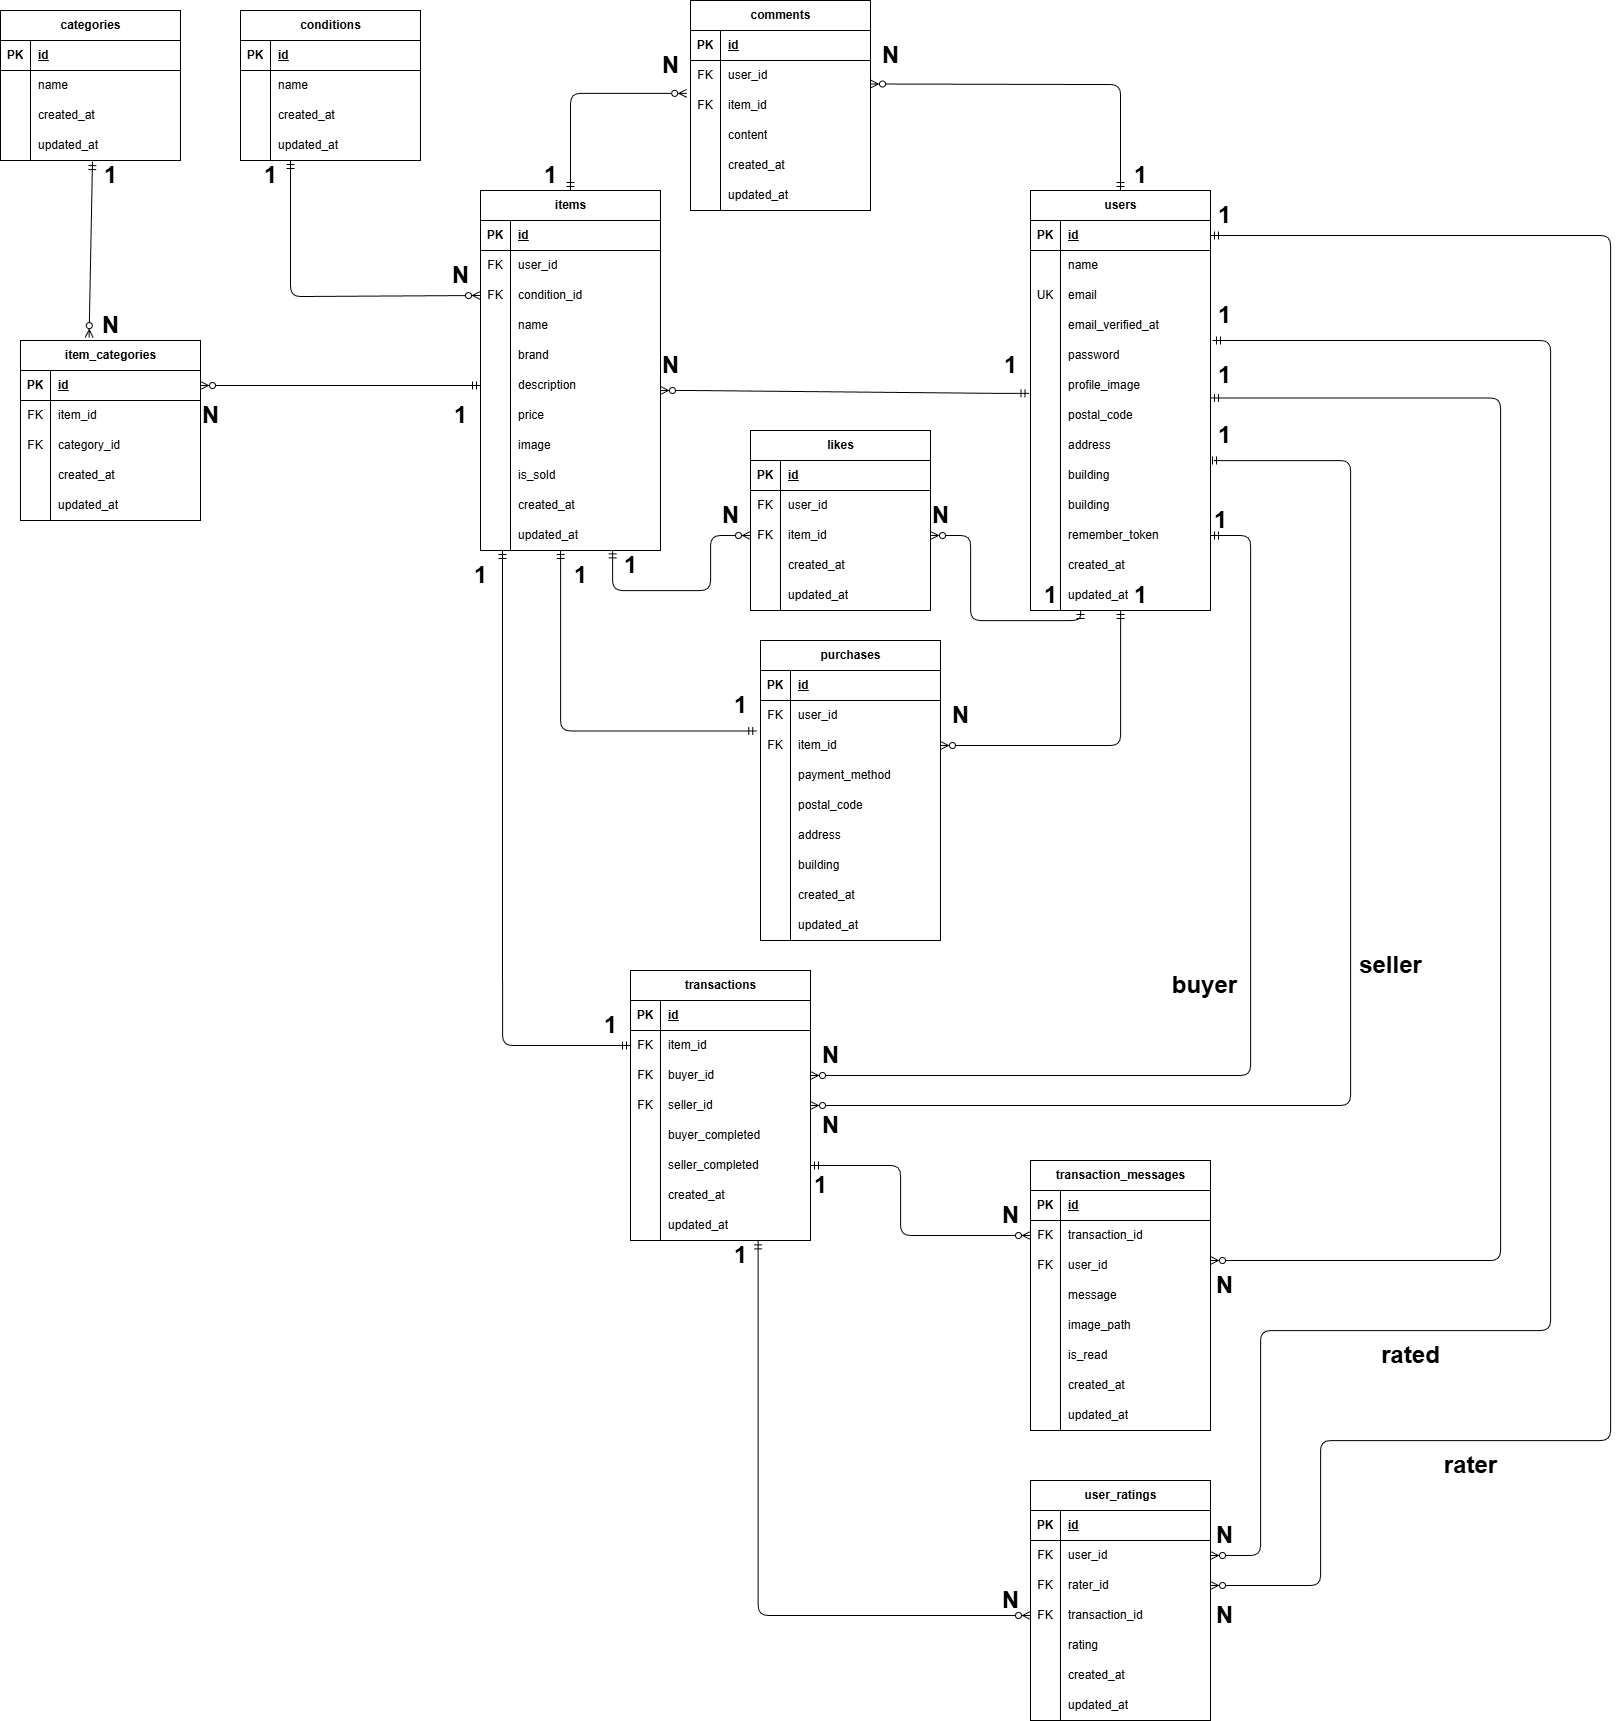
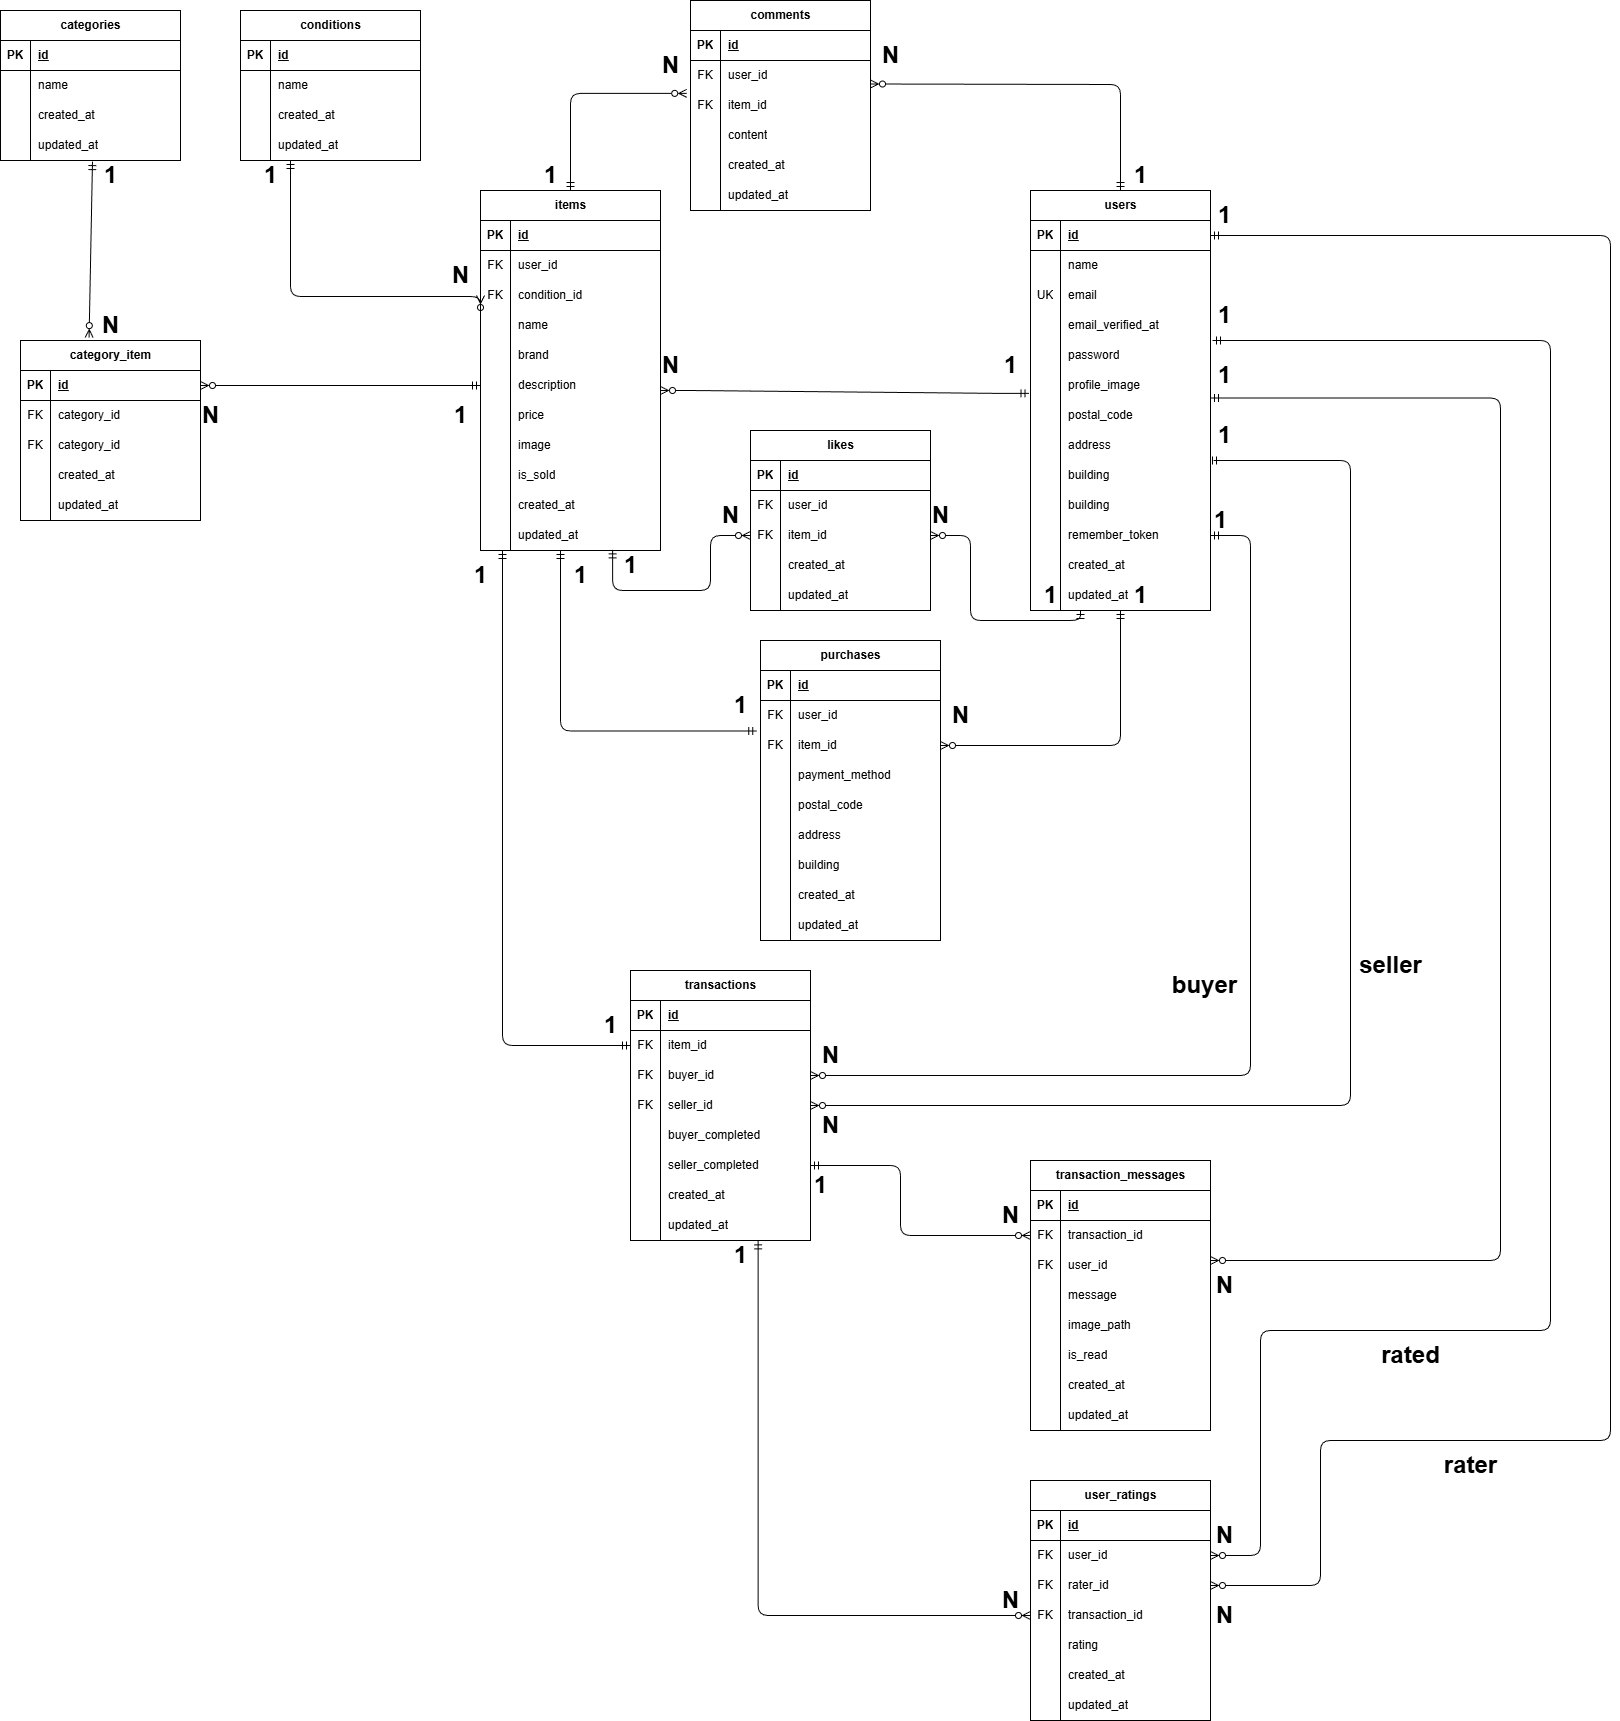
ルート追加忘れ等細かい修正

diff --git a/src/routes/web.php b/src/routes/web.php
@@ -45,6 +45,9 @@ Route::middleware(['auth'])->group(function () {
     // 取引チャット
     Route::get('/transaction/{transaction}', [TransactionController::class, 'chat'])->name('transactions.chat');
 
+    // 取引完了
+    Route::post('/transaction/{transaction}/complete', [TransactionController::class, 'complete'])->name('transactions.complete');
+
     // メッセージ送信
     Route::post('/transaction/{transaction}/message', [TransactionMessageController::class, 'store'])->name('transactions.message.store');
 

diff --git a/src/database/migrations/2026_01_30_010405_rename_item_categories_to_category_item.php b/src/database/migrations/2026_01_30_010405_rename_item_categories_to_category_item.php
@@ -1,0 +1,17 @@
+<?php
+
+use Illuminate\Database\Migrations\Migration;
+use Illuminate\Support\Facades\Schema;
+
+class RenameItemCategoriesToCategoryItem extends Migration
+{
+    public function up()
+    {
+        Schema::rename('item_categories', 'category_item');
+    }
+
+    public function down()
+    {
+        Schema::rename('category_item', 'item_categories');
+    }
+}

diff --git a/src/app/Http/Controllers/RatingController.php b/src/app/Http/Controllers/RatingController.php
@@ -52,7 +52,7 @@ class RatingController extends Controller
             'rating' => $request->rating,
         ]);
 
-        return redirect()->route('profile.show')
+        return redirect()->route('items.index')
             ->with('success', '評価を送信しました。');
     }
 }

diff --git a/src/app/Models/Item.php b/src/app/Models/Item.php
@@ -37,7 +37,7 @@ class Item extends Model
 
     public function categories()
     {
-        return $this->belongsToMany(Category::class, 'item_categories');
+        return $this->belongsToMany(Category::class, 'category_item');
     }
 
     public function likes()

diff --git a/src/app/Models/Category.php b/src/app/Models/Category.php
@@ -13,6 +13,6 @@ class Category extends Model
 
     public function items()
     {
-        return $this->belongsToMany(Item::class, 'item_categories');
+        return $this->belongsToMany(Item::class, 'category_item');
     }
 }
